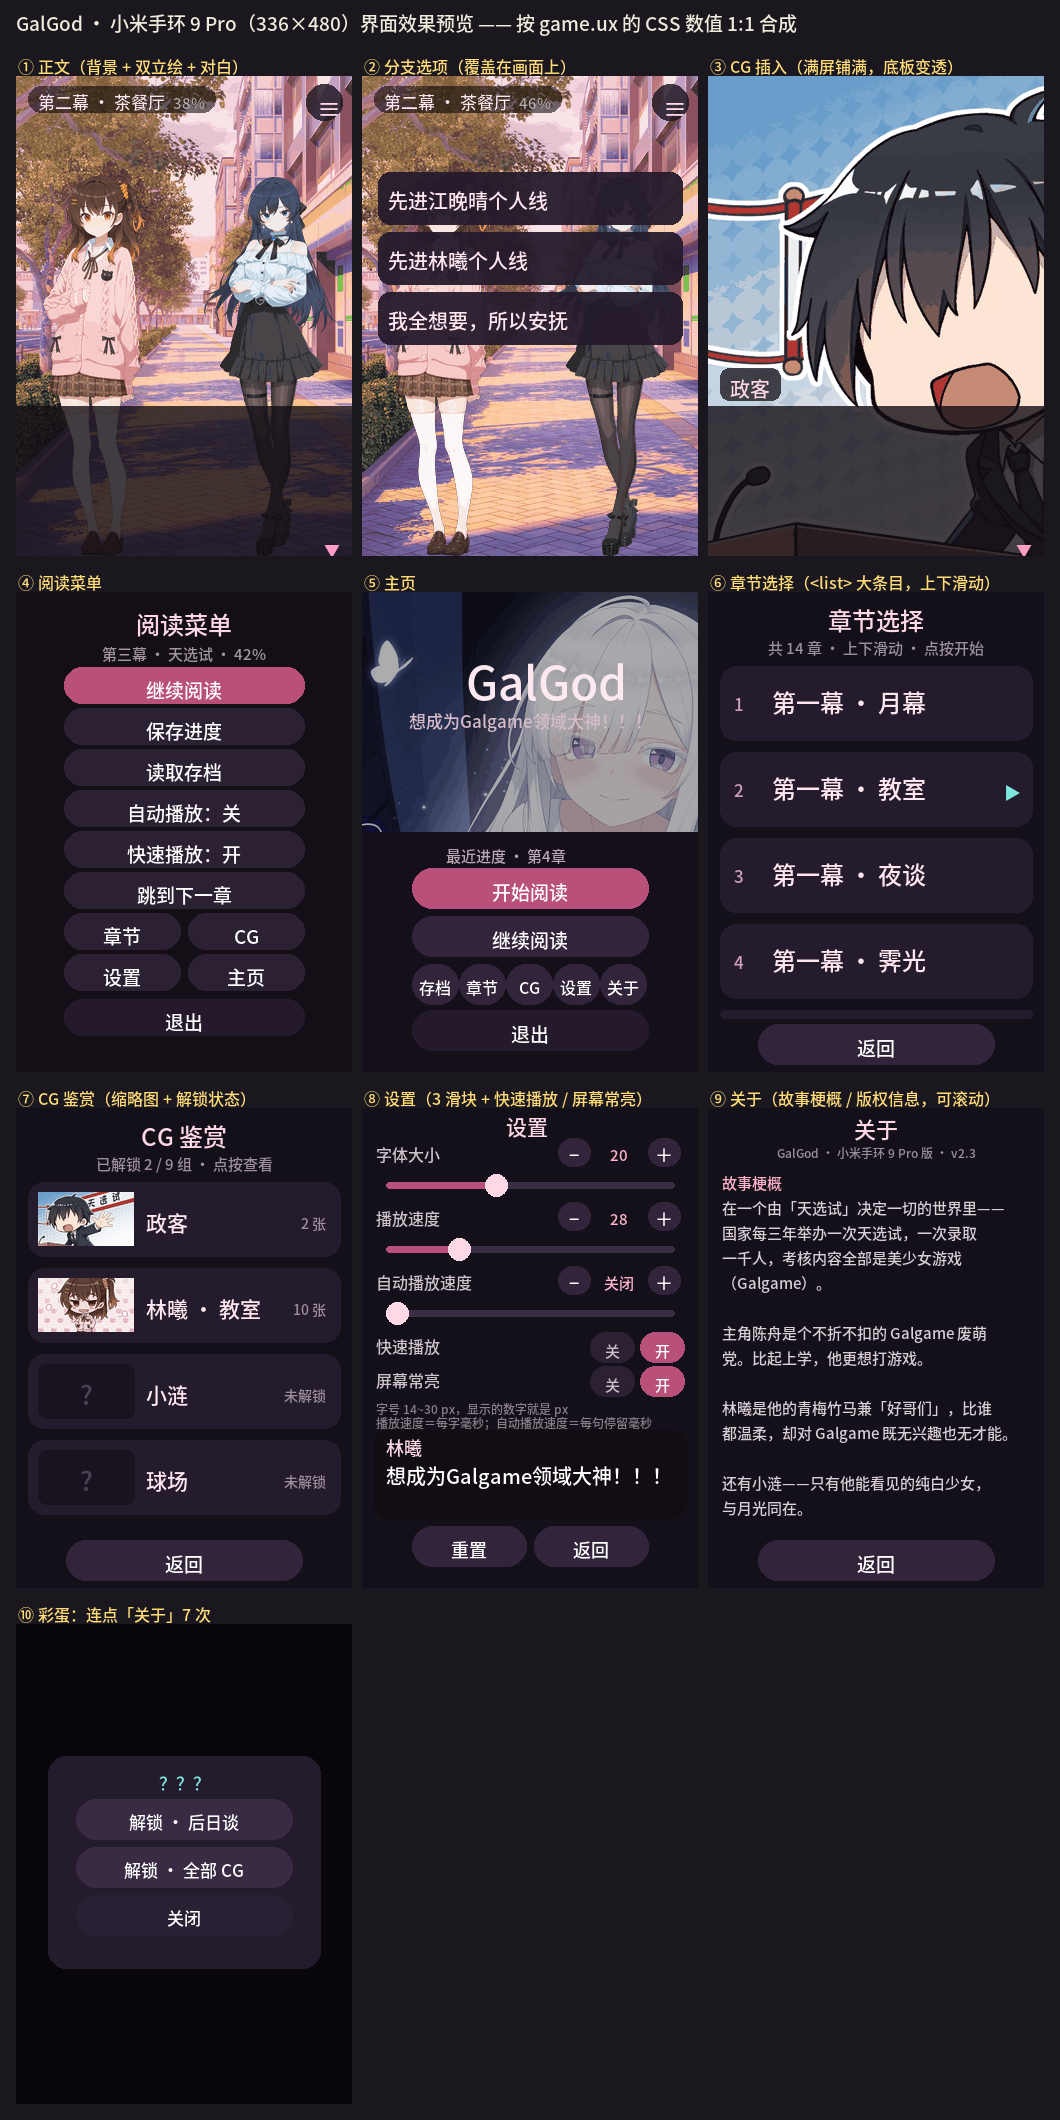
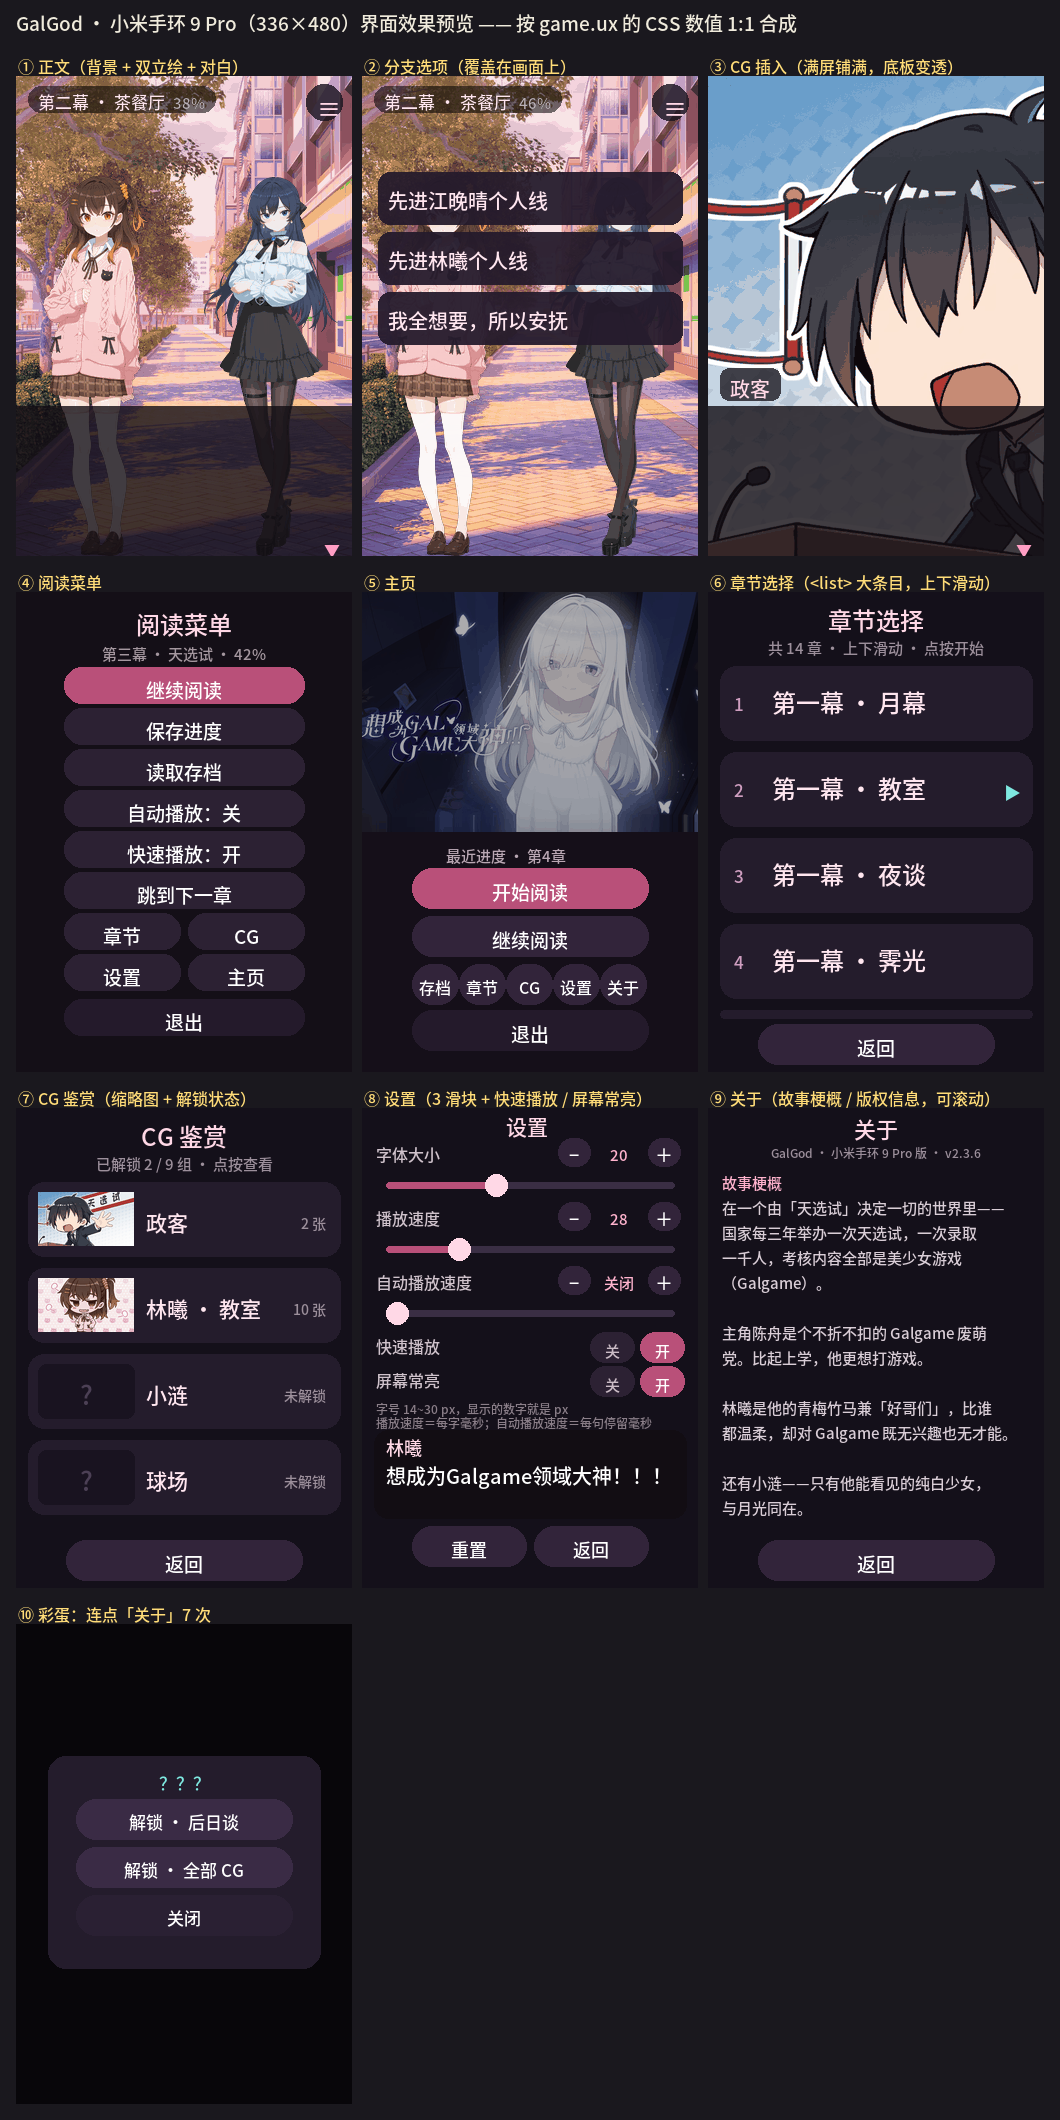
2.3.6：主页改用原图构图、图标换成女孩脸、修两处可拖动问题
主页
- home.png 改成原图按 3:2 居中裁切的那张构图（logo 在左、女孩在右）
- 关键点：主页真正露出来的画面区只有上面 336x240（下面被按钮面板盖住），
  而 3:2 是 1.5:1、336x240 是 1.4:1，两者几乎一致，所以整张构图能几乎完整铺进去
- 按宽度铺满而不是 cover：cover 会裁掉两侧、把 logo 切掉（试过）
- 画面下面接一段渐变收进底色，避免面板半透明处露硬边
- 删掉 index.ux 里原有的 GalGod 标题与副标题：
  现在图里就是原图的 logo，再叠文字会盖住它、内容也重复

应用图标
- 换成用户提供的女孩脸方图（源 250x250，自带圆角透明），缩到 192x192

可拖动相关的两个修复
- 游戏页 .page 补 overflow:hidden：
  背景图 672 宽而页面 336 宽，不裁住的话运行时会当成横向可滚动区域，
  玩家一拖整个背景就被拖走（真机反馈「背景还能拖动」）
- CG 拖动加 1.8 倍放大：屏幕只有 336 宽、手指一次最多划过一个屏宽，
  而可拖距离是 518px，1:1 跟手一次只能拖 65%，
  划到屏幕边缘就拖不动了（真机反馈「cg 拖一半拖不动」）

工具
- test_paginate.js 新增两项断言：
  1) 所有页面里给了宽高的 image 必须写 object-fit
     （Vela 默认不缩放，漏写会只占一块、其余留黑）
  2) game.ux 的 .page 必须有 overflow:hidden
- stripComments 提到文件顶层（原来定义在 if 块里，块外的检查用不到）
- preview_ui.py 的主页预览跟着去掉文字

Changed region(s): [[0.3425, 0.2802, 0.6849, 0.4047], [0.8094, 0.5292, 0.8717, 0.5604]]

diff --git a/tools/test_paginate.js b/tools/test_paginate.js
@@ -57,6 +57,15 @@ geom.MORE_TOP = Number(moreM[1]);
 
 const layoutBody = extract(src, 'layout');
 
+// "不许再出现"这类检查必须**先剥掉注释**再看，否则注释里提到 swiper / scrollview
+// 就会误报（那些文件里恰好写了大段"为什么不用它"的说明）。
+// 剥 // 时要避开 https:// 里的双斜杠。
+// 定义在顶层，因为下面好几个检查块都要用。
+const stripComments = (t) => t
+  .replace(/<!--[\s\S]*?-->/g, ' ')
+  .replace(/\/\*[\s\S]*?\*\//g, ' ')
+  .replace(/(^|[^:])\/\/[^\n]*/g, '$1 ');
+
 // 真正的换行 + 分页算法在 reader.js，正文页和关于页共用
 const wrap = extractExport(readerSrc, 'wrapText');
 const pag = extractExport(readerSrc, 'paginateText');
@@ -108,13 +117,7 @@ if (fs.existsSync(genAssets)) {
   const num = (re, s) => { const m = s.match(re); return m ? Number(m[1]) : null; };
   const bad = [];
 
-  // "不许再出现"这类检查必须**先剥掉注释**再看，否则注释里提到 swiper / scrollview
-  // 就会误报（这些文件里恰好写了大段"为什么不用它"的说明）。
-  // 剥 // 时要避开 https:// 里的双斜杠。
-  const stripComments = (t) => t
-    .replace(/<!--[\s\S]*?-->/g, ' ')
-    .replace(/\/\*[\s\S]*?\*\//g, ' ')
-    .replace(/(^|[^:])\/\/[^\n]*/g, '$1 ');
+  // stripComments 定义在文件顶层，这里直接用
   const code = stripComments(src);
 
   const scrW = num(/^SCREEN_W,\s*SCREEN_H\s*=\s*(\d+)/m, ga);
@@ -160,6 +163,15 @@ if (fs.existsSync(genAssets)) {
   }
   if (!/startBgPan/.test(code) || !/bgPanTick/.test(code)) {
     bad.push('game.ux 里找不到 startBgPan / bgPanTick（背景平移的核心）');
+  }
+  // 真机上踩过：背景图 672 宽而页面 336 宽，页面又没 overflow:hidden，
+  // 运行时就把它当成横向可滚动区域，玩家一拖整个背景就被拖走了。
+  {
+    const pageBlock = (code.match(/\.page \{[^}]*\}/) || [''])[0];
+    if (!/overflow:\s*hidden/.test(pageBlock)) {
+      bad.push('game.ux 的 .page 没有 overflow:hidden：背景图比屏幕宽，' +
+        '运行时会把它当作横向可滚动内容，玩家一拖就把背景拖走');
+    }
   }
 
   // ---- CG 是「一张宽图 + touchmove 连续拖动」，不许再退回预切翻页 / scrollview
@@ -260,6 +272,39 @@ if (fs.existsSync(genAssets)) {
     }
     console.log('背景素材 ✔  ' + bgs.length + ' 张宽图全部存在');
   }
+}
+
+// ---- 所有页面：给定了宽高的 <image> 必须写 object-fit
+//      真机上踩过：Vela 的 <image> 默认**不缩放**，按图片原始像素尺寸绘制，
+//      没写 object-fit 的图会只占一块、其余留黑（CG 页出现过）。
+{
+  const pagesDir = path.join(proj, 'src', 'pages');
+  const offenders = [];
+  for (const pg of fs.readdirSync(pagesDir)) {
+    const f = path.join(pagesDir, pg, pg + '.ux');
+    if (!fs.existsSync(f)) continue;
+    const code2 = stripComments(fs.readFileSync(f, 'utf8'));
+    const blocks = {};
+    let mm;
+    const reBlock = /\.([a-zA-Z0-9_-]+)\s*\{([^}]*)\}/g;
+    while ((mm = reBlock.exec(code2))) blocks[mm[1]] = mm[2];
+    const reTag = /<image\b[^>]*>/g;
+    while ((mm = reTag.exec(code2))) {
+      const cm = /class="([^"]+)"/.exec(mm[0]);
+      if (!cm) continue;
+      for (const cls of cm[1].split(/\s+/)) {
+        const body = blocks[cls] || '';
+        if (!/width:\s*\d+px/.test(body) || !/height:\s*\d+px/.test(body)) continue;
+        if (!/object-fit/.test(body)) offenders.push(pg + ' .' + cls);
+      }
+    }
+  }
+  if (offenders.length) {
+    console.error('✖ 这些 <image> 给了宽高却没写 object-fit（真机上会按原始尺寸绘制）：\n    ' +
+      offenders.join('\n    '));
+    process.exit(1);
+  }
+  console.log('图片 object-fit ✔  所有给定宽高的 <image> 都写了');
 }
 
 // ---- 关于页：它把每行字数写成常量 CPL，也要核对「CPL × 字号 ≤ 行宽」

diff --git a/tools/gen_assets.py b/tools/gen_assets.py
@@ -56,6 +56,10 @@ CG_COLORS = 56
 THUMB_W, THUMB_H = 96, 54      # CG 鉴赏缩略图（16:9）
 THUMB_COLORS = 64
 
+# 主页真正露出来的画面区高度：下面 240 被 index.ux 的按钮面板盖住。
+# 必须与 index.ux 里 .panel 的 top 一致（npm run test 会核对）。
+HOME_TOP_H = 240
+
 
 def cover(im, w, h, bias_y=0.5):
     """等比缩放到刚好覆盖 w x h，然后居中裁剪"""
@@ -178,11 +182,37 @@ def main(raw_dir, proj):
                          THUMB_COLORS, alpha=False)
             total += os.path.getsize(os.path.join(thumb_dir, "g%d.png" % gi))
 
-    # 标题画与图标
+    # 主页画
+    # 用户指定的构图就是原图按 **3:2 居中裁切**（和 Steam 头图一致），
+    # 也就是「logo 锁排在左、女孩在右」那张。
+    #
+    # 关键：主页真正露出来的画面区只有**上面 336x240**（下面 240 被按钮面板盖住），
+    # 而 3:2 裁切是 1.5:1、336x240 是 1.4:1，两者几乎一致 ——
+    # 所以整张构图能几乎完整地铺进去，两边都不丢。
     title_src = os.path.join(raw_dir, "images", "cg", "main_screen.avif")
     if os.path.isfile(title_src):
-        im = cover(Image.open(title_src), SCREEN_W, SCREEN_H, bias_y=0.5)
-        save_palette(im, os.path.join(common, "home.png"), 96, alpha=False)
+        art = Image.open(title_src).convert("RGB")
+        aw, ah = art.size                          # 1920x1080
+        cw = int(round(ah * 1.5))                  # 1620，3:2
+        x0 = (aw - cw) // 2
+        art = art.crop((x0, 0, x0 + cw, ah))
+        # 按**宽度**完整铺下（不做 cover 裁切）：3:2 的图铺进 336 宽正好是 336x224，
+        # 比画面区 240 只差 16px，用渐变补掉就行。
+        # 用 cover 会裁掉两侧 —— logo 会被切（试过，用户要的正是 logo 在左的完整构图）。
+        fit_h = int(round(SCREEN_W * ah / float(cw)))
+        top = art.resize((SCREEN_W, fit_h), Image.LANCZOS)
+
+        canvas = Image.new("RGB", (SCREEN_W, SCREEN_H), (13, 9, 16))
+        canvas.paste(top, (0, 0))
+        # 画面区下面接一段渐变收进底色：
+        # 面板是 rgba(21,15,25,0.94)，留一点点透出来的话不能是硬边。
+        edge = top.crop((0, fit_h - 1, SCREEN_W, fit_h))
+        dark = Image.new("RGB", (SCREEN_W, 1), (13, 9, 16))
+        span = float(SCREEN_H - fit_h)
+        for y in range(fit_h, SCREEN_H):
+            t = min(1.0, ((y - fit_h) / span) * 1.5)
+            canvas.paste(Image.blend(edge, dark, t), (0, y))
+        save_palette(canvas, os.path.join(common, "home.png"), 96, alpha=False)
         total += os.path.getsize(os.path.join(common, "home.png"))
 
     moon = os.path.join(raw_dir, "images", "bg", "moon.avif")

diff --git a/tools/preview_ui.py b/tools/preview_ui.py
@@ -248,14 +248,12 @@ def main(raw, proj):
     panels.append((c4, "④ 阅读菜单"))
 
     # 5. 主页
+    # 顶部不再有 "GalGod" 与副标题文字：现在 home.png 本身就是原图那张
+    # 「logo 在左、女孩在右」的完整构图，再叠文字会盖住它、内容也重复。
     c5 = Image.open(px(proj, "/common/home.png")).convert("RGBA")
     shade = Image.new("RGBA", (W, H), (13, 9, 16, 87))
     c5 = Image.alpha_composite(c5, shade)
     d = ImageDraw.Draw(c5)
-    d.text((104, 54), "GalGod", font=font(FONT, 46), fill=(255, 233, 241))
-    sub = "想成为Galgame领域大神！！！"
-    d.text(((W - d.textlength(sub, font=f_small)) / 2, 116), sub,
-           font=f_small, fill=(214, 188, 200))
     d.rectangle([0, 240, W, H], fill=(21, 15, 25, 240))
     d.text((84, 252), "最近进度 · 第4章", font=f_tiny, fill=(185, 167, 179))
     for i, (txt, main, wide) in enumerate([("开始阅读", True, True), ("继续阅读", False, True)]):
@@ -403,7 +401,7 @@ def main(raw, proj):
                 font=font(FONT, 22), fill=(255, 216, 230))
         if with_dots:
             dd.text((286, 10), "···", font=font(FONT, 15), fill=(255, 158, 196))
-        sub = "GalGod · 小米手环 9 Pro 版 · v2.3"
+        sub = "GalGod · 小米手环 9 Pro 版 · v2.3.6"
         dd.text(((W - dd.textlength(sub, font=font(FONT, 12))) / 2, 36), sub,
                 font=font(FONT, 12), fill=(156, 143, 155))
         rows = [

diff --git a/README.md b/README.md
@@ -12,7 +12,7 @@
 CG 鉴赏   9 组 / 32 张差分图，按原作 gallery.rpy 的分组与解锁条件；大图可横向拖动看全图
 页面      7 个：主页 / 正文 / 存档 / 章节 / CG 鉴赏 / 设置 / 关于
 协议      代码 MIT（见 LICENSE）；剧本与美术资源不在 MIT 范围内（见 NOTICE.md）
-产物      dist/com.galgod.band.debug.2.3.4.rpk   7.40 MB
+产物      dist/com.galgod.band.debug.2.3.6.rpk   7.40 MB
 ```
 
 > **免责声明**：本项目是非官方的个人移植，仅供学习交流。
@@ -119,8 +119,8 @@ GalGod手环版/
 
 ```bash
 npm install                    # 只有 aiot-toolkit 一个真正的依赖
-npm run build                  # → dist/com.galgod.band.debug.2.3.4.rpk
-npm run release                # → dist/com.galgod.band.release.2.3.4.rpk（需要 sign/ 下的证书）
+npm run build                  # → dist/com.galgod.band.debug.2.3.6.rpk
+npm run release                # → dist/com.galgod.band.release.2.3.6.rpk（需要 sign/ 下的证书）
 npm run test                   # 排版 + 几何常量 + 全景参数一致性
 npm run start                  # 起模拟器预览（需要 AIoT-IDE/模拟器环境）
 ```
